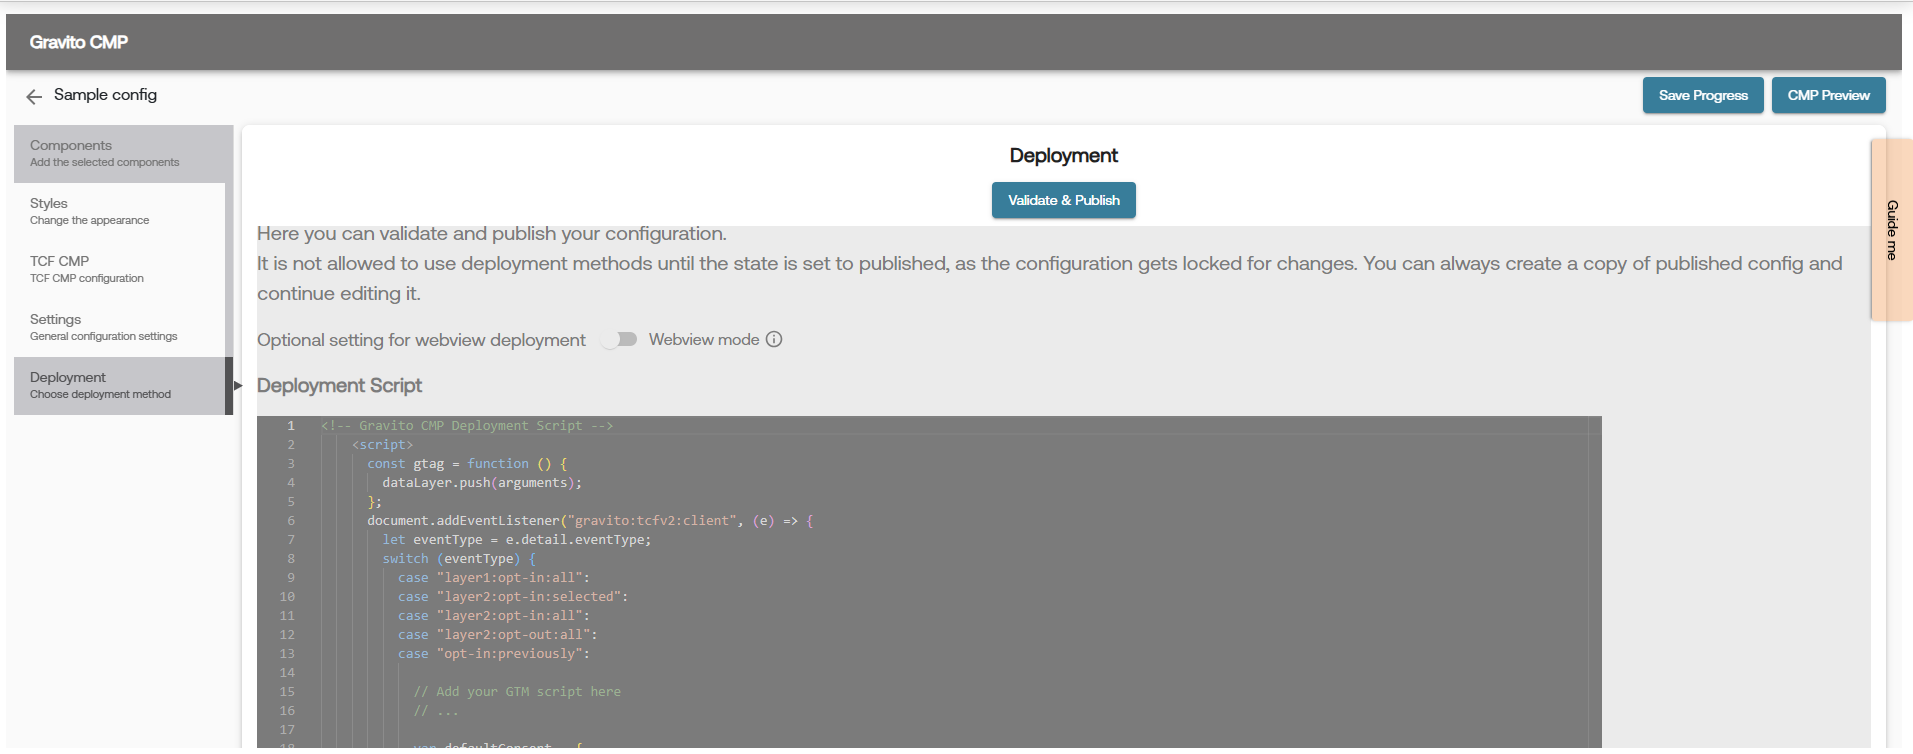
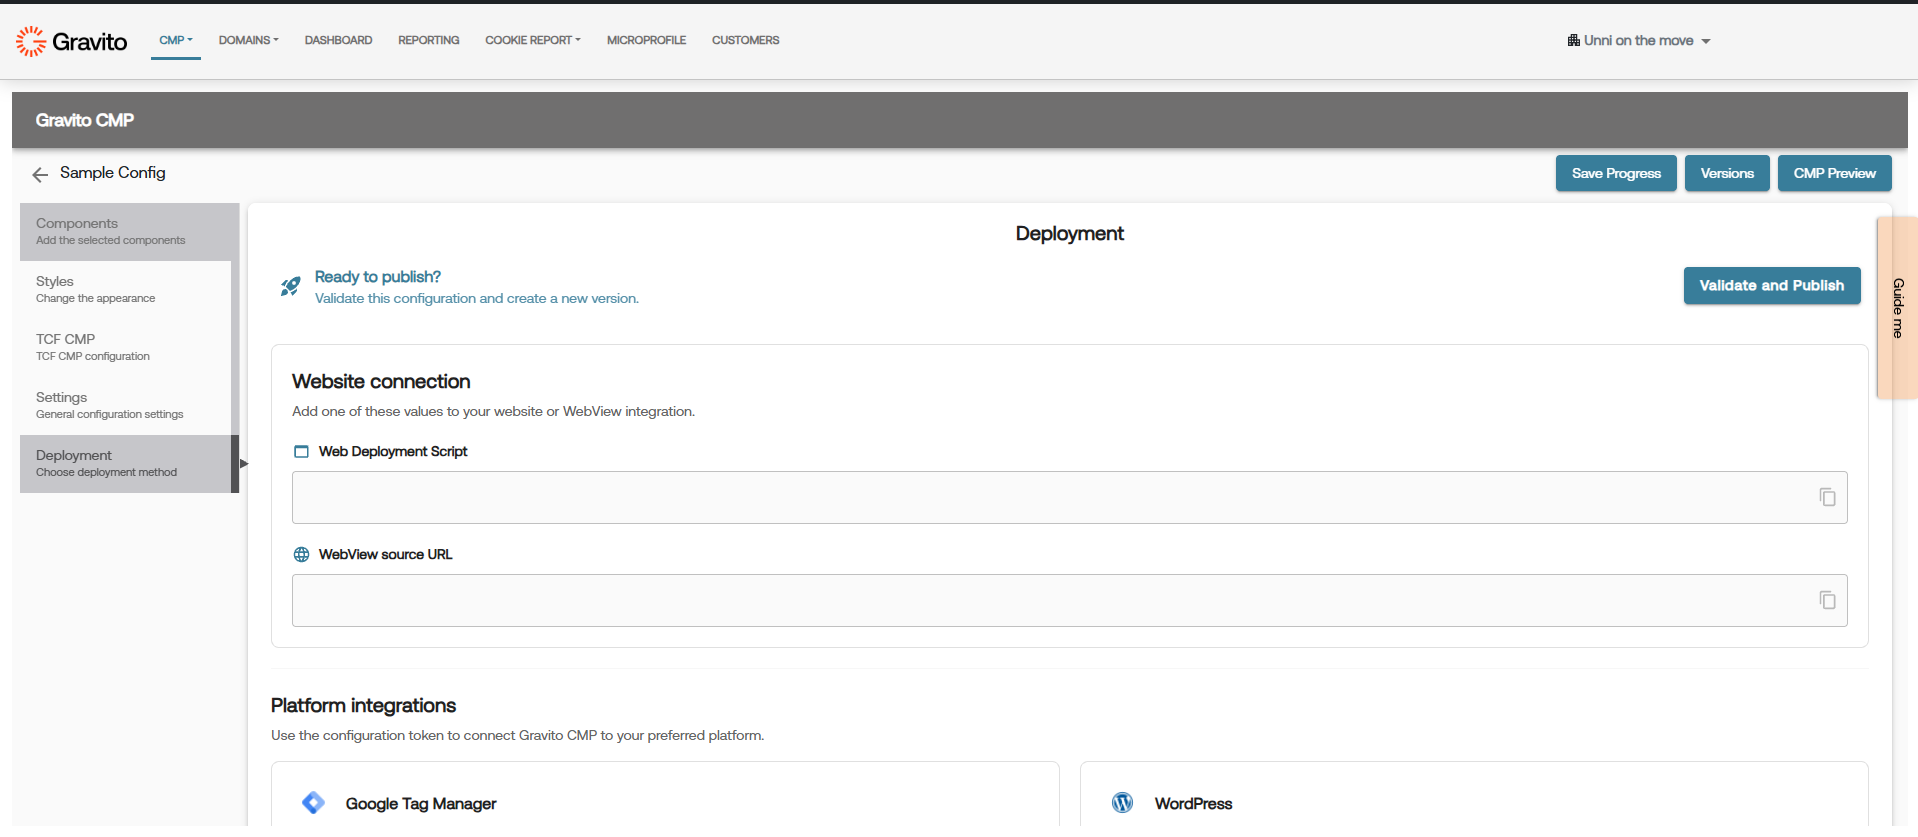
Update Release Notes and deployment documentation

diff --git a/docs/Gravito_V6_CMP/Deployment.md b/docs/Gravito_V6_CMP/Deployment.md
@@ -1,36 +1,65 @@
 # Deployment for Gravito CMP (New) Configuration
 
-All deployment related actions for Gravito CMP (New) are handled through **Deployment** tab in the Gravito CMP (New) Configurator. This tab is available as the last tab in the sidebar of the configurator.
+All deployment-related actions for Gravito CMP (New) are handled through the **Deployment** tab in the Gravito CMP (New) Configurator. This tab is available as the last tab in the sidebar of the configurator.
 
 ![](./img/deployment_highlight.png)
 
-After configuring your CMP, you can click the **Validate & Publish** button to publish your changes.
+## Publish a configuration
 
-> **Note**: You cannot make changes to the CMP configuration after publishing. However, you can always create a copy of the configuration to make changes.
+After configuring your CMP, click **Validate and Publish** to validate the configuration and create its first published version. During publishing, provide a version title and optional version notes so that the change can be identified later.
 
-After Publishing, the below deployment methods are available:
+The deployment URL is stable. You add the deployment script to your website once, and subsequent published versions are served through the same URL. You do not need to replace the script on your website when you update the configuration.
 
-## 1. Deployment Script
-This option allows you to deploy Gravito CMP using a simple script. You can download the script in the format of your choice.
+After a configuration has been published, the Deployment tab shows **Validate and Republish**. To publish changes:
 
+1. Update the configuration and click **Save Progress**.
+2. Open the **Deployment** tab and click **Validate and Republish**.
+3. Enter a version title and optional notes, then click **Publish**.
 
-Now you can copy or download the deployment script using the options as shown in below image
-    ![](./img/deployment_script.png) 
+The new version becomes the live version at the existing deployment URL. The same behavior applies to the deployment script, WebView URL, GTM token, and WordPress token associated with the configuration.
 
+## Manage versions and roll back
 
-> **Note**: If you want to deploy the CMP on a mobile application, please **enable** the [Webview Mode](./Components/TCFCMP/webview_cmp_for_apps.md) option in the Deployment tab.
-        ![](./img/webview_button.png)
+Click **Versions** in the configurator to view the saved draft and published versions. The version list indicates the currently live version and includes the publication date, title, and notes when provided.
 
-**For Website** - You can paste the script at the very top of the `<body>` section of your website so it loads before any other scripts. 
+![](./img/version_control.png)
 
-**For Mobile App** - You can download the script as a `HTML` file and use it in your mobile app's webview. This html file can be downloaded only when you enable the webview mode.
+To roll back to an earlier version:
 
-## 2. GTM (Google Tag Manager) Template
+1. Click **Versions**.
+2. Find the version you want to restore and click **Load to configurator**.
+3. Review the loaded configuration and make any required adjustments.
+4. Click **Validate and Republish**, enter the version details, and publish it.
+
+Loading a version into the configurator does not change production. The rollback takes effect only after you republish it. The deployment URL remains unchanged, so the website, WebView, and other integrations continue to use the same point of contact.
+
+## Website connection
+
+The **Website connection** section provides the values required to connect your website or WebView integration to Gravito CMP.
+![](./img/website_connection.png)
+
+### Web Deployment Script
+
+You can copy the **Web Deployment Script** and paste it into your website's HTML to load Gravito CMP. The script is a one-line snippet that loads the CMP asynchronously.
+
+**For a website**: Paste the one-line script at the very top of the `<body>` section so it loads before other scripts.
+
+### WebView source URL
+
+Copy the **WebView source URL** and use it as the source URL when loading Gravito CMP in your mobile application's WebView.
+
+For platform-specific WebView setup, including the required `platform` query parameter and message handling, see the [WebView-based CMP Integration Guide](./Components/TCFCMP/webview_cmp_for_apps.md).
+
+## Platform integrations
+
+Use the configuration token to connect Gravito CMP to your preferred platform.
+![](./img/platform_integrations.png)
+
+### Google Tag Manager (GTM) Template
+
 This option allows you to quickly integrate Gravito's CMP with your website using Google Tag Manager. Please follow the steps below to deploy using GTM:
 
 1. You can copy the GTM Token by clicking on the **Copy GTM Token** button.
-
-    ![](./img/copy_GTM_token.png)
 
 2. **Login** to your **Google Tag Manager** account and click on a new **Tag**.
 
@@ -78,11 +107,10 @@ This option allows you to quickly integrate Gravito's CMP with your website usin
     - Submit and **Publish** the container.
     - CMP will now load and handle consent dynamically on your site.
 
-## 3. WordPress Plugin
+### WordPress Plugin
+
 Seamlessly integrate Gravito's CMP into your WordPress website using our dedicated plugin. Please follow the steps below to deploy using the WordPress plugin:
 
 1. You can copy the WordPress Token by clicking on the **Copy WordPress Token** button.
-
-    ![](./img/copy_WordPress_token.png)
 
 2. Use this token in the WordPress plugin to integrate Gravito's CMP into your website.

diff --git a/docs/Getting_started/Release_Notes.md b/docs/Getting_started/Release_Notes.md
@@ -13,7 +13,13 @@ Here you can find more about the general product updates
 
 ## Product Release notes :
 
-## Release notes: Sprint 84 - 04/08/2026 <mark>New</mark>
+## Release notes: Sprint 85 - 29/09/2026 <mark>New</mark>
+
+- Changed CMP configurator's deployment strategy to use a single deployment script for all CMP frameworks. This simplifies the deployment process and reduces the risk of errors during integration.
+- Introduced new features like Republish, version control, and rollback in the CMP configurator. These features allow users to manage their configurations more effectively and ensure that they can revert to previous versions if needed.
+- Modified CMP deployment script logic to included check for the presence of `document.body` and initialize the CMP only after the DOM is fully loaded. This change improves the reliability of the CMP loading process and ensures that it does not interfere with other scripts on the page.
+
+## Release notes: Sprint 84 - 04/08/2026
 
 - Removed deprecated CMP configurators from the Admin Portal to reduce confusion and improve usability. The latest Gravito CMP configurator is now the only configurator available for configuration.
 

diff --git a/docs/Gravito_V6_CMP/Release_Notes.md b/docs/Gravito_V6_CMP/Release_Notes.md
@@ -1,19 +1,29 @@
 # Release Notes
 
-## Release Notes 6.6.0 (04/08/2026) <mark>New</mark>
+## Release Notes 6.6.1 (29/09/2026) <mark>New</mark>
+
+Improvements:
+
+- Updated the CMP to support `TCF 2.4 compliance`, including the latest TCF UI requirements. The CMP now displays the required standard user-friendly text and illustrations.
+- Upgraded the IAB TCF libraries to `v1.5.22`.
+
+## Release Notes 6.6.0 (04/08/2026)
 
 New Features:
+
 - Added GPP support for Web and WebView.
 - Reduced GravitoData cookie size for improved storage efficiency.
 
 ## Release Notes 6.5.3 (26/03/2026)
 
 New Features:
+
 - Dutch language support for TCF CMP.
 - Support for separate text on 1st and 2nd layer/tab of TCF CMP for Accept All button.
 - Footer logo made configurable via configuration in both TCF and standard CMP.
 
 Improvements:
+
 - Fixed Accessibility issues in the vendors tab of TCF CMP.
 - Added missing dropdown for special features in TCF CMP banner.
 - Fixed data retention count which was showing undefined in the certain cases in TCF CMP.
